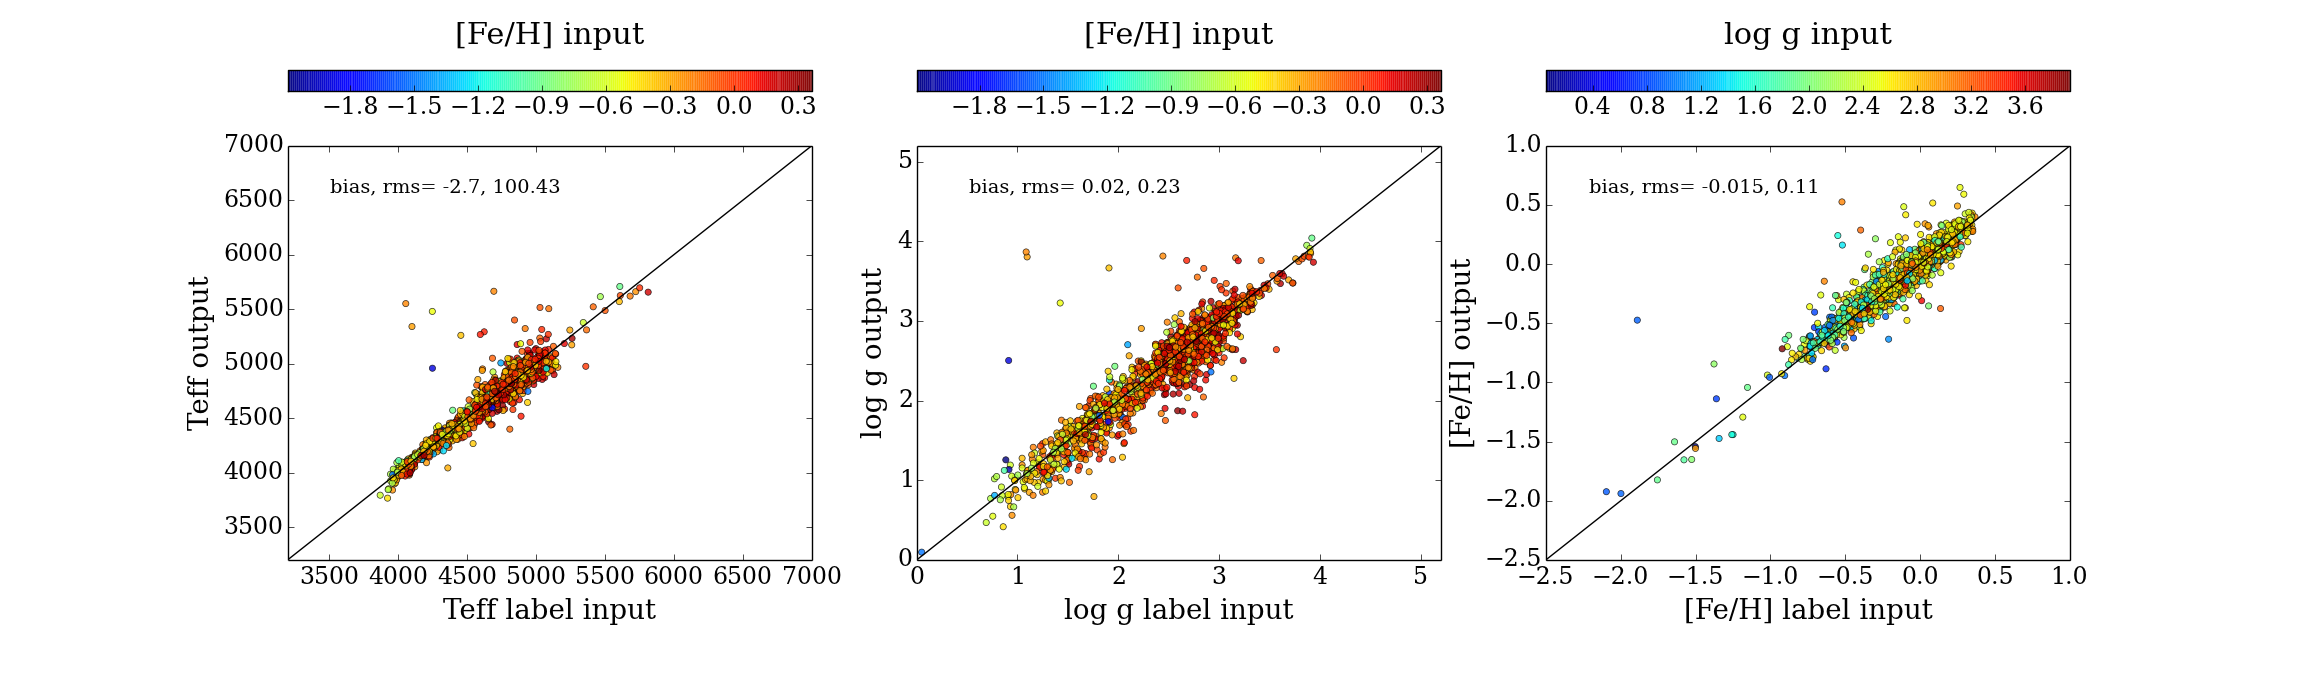
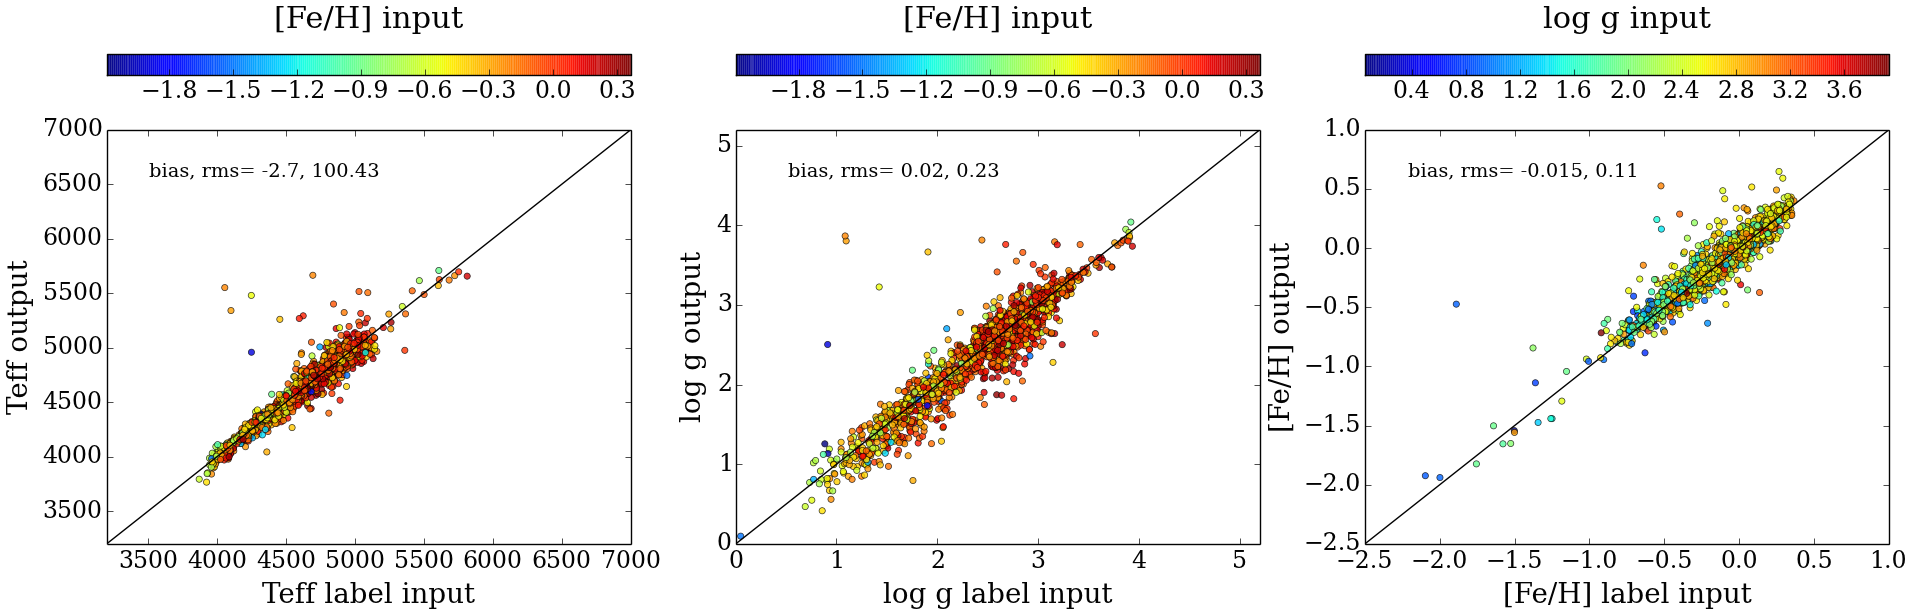
first draft

diff --git a/presentations/hogg_psu_2015-02-11.tex b/presentations/hogg_psu_2015-02-11.tex
@@ -1,5 +1,4 @@
 \documentclass[pdftex]{beamer}
-\input{hogg_presentation} % hogg standard colors
 %\input{vc}
 % 1.77778 is the ratio of 16 to 9
 %\setlength{\paperheight}{3.5in}
@@ -8,6 +7,8 @@
 \setlength{\paperheight}{4.0in}
 \setlength{\paperwidth}{1.33333\paperheight}
 \setlength{\textwidth}{0.85\paperwidth}
+% import the next thing *after* the papersize
+\input{hogg_presentation} % hogg standard colors
 
 \newcommand{\credits}{{\footnotesize (Ness, Hogg, \etal)}}
 \newcommand{\teff}{T_{\mathrm{eff}}}
@@ -346,6 +347,8 @@
 
 \begin{frame}
   \frametitle{\tc: works at low signal-to-noise}
+  ~\hfill\includegraphics<1>[height=\figureheight]{../documents/plots/SNR100to200.png}
+         \includegraphics<3>[height=\figureheight]{../documents/plots/SNR20to30.png}
 \end{frame}
 
 \begin{frame}
@@ -370,26 +373,13 @@
   \frametitle{other applications for data-driven models}
   \begin{itemize}
   \item building a consistent stellar parameter system for \gaia
-  \item \kepler\ lightcurves
+  \item \kepler\ and \project{K2} lightcurves
   \item CMB foregrounds
   \end{itemize}
 \end{frame}
 
 \begin{frame}
-  \frametitle{Data-driven self-calibration of \kepler\ \small{(Wang \etal)}}
-  ~\hfill\includegraphics<1>[height=\figureheight]{./kic_03544595_05_pixels.png}
-         \includegraphics<2>[height=\figureheight]{./lightCurve_5088536_1_90_q5_reg1e+05_pdc_outlier.png}
+  \textsl{[ask me about \emph{20 new extra-solar planets} in \project{K2}]}
 \end{frame}
-
-\begin{frame}
-  \frametitle{conservatism requires huge numbers of parameters}
-  \begin{itemize}
-  \item without enormous freedom, the model won't be data-driven
-  \item abandon hope that the number of parameters will be less than the number of data points
-  \item marginalization of nuisances
-  \end{itemize}
-\end{frame}
-
-%\conclusions
 
 \end{document}

diff --git a/presentations/hogg_presentation.tex b/presentations/hogg_presentation.tex
@@ -29,7 +29,7 @@
 
 %%% size and shape commands
 \newlength{\figurewidth}
-\setlength{\figurewidth}{0.9\textwidth}
+\setlength{\figurewidth}{\textwidth}
 \newlength{\figureheight}
 \setlength{\figureheight}{0.9\textheight}
 
